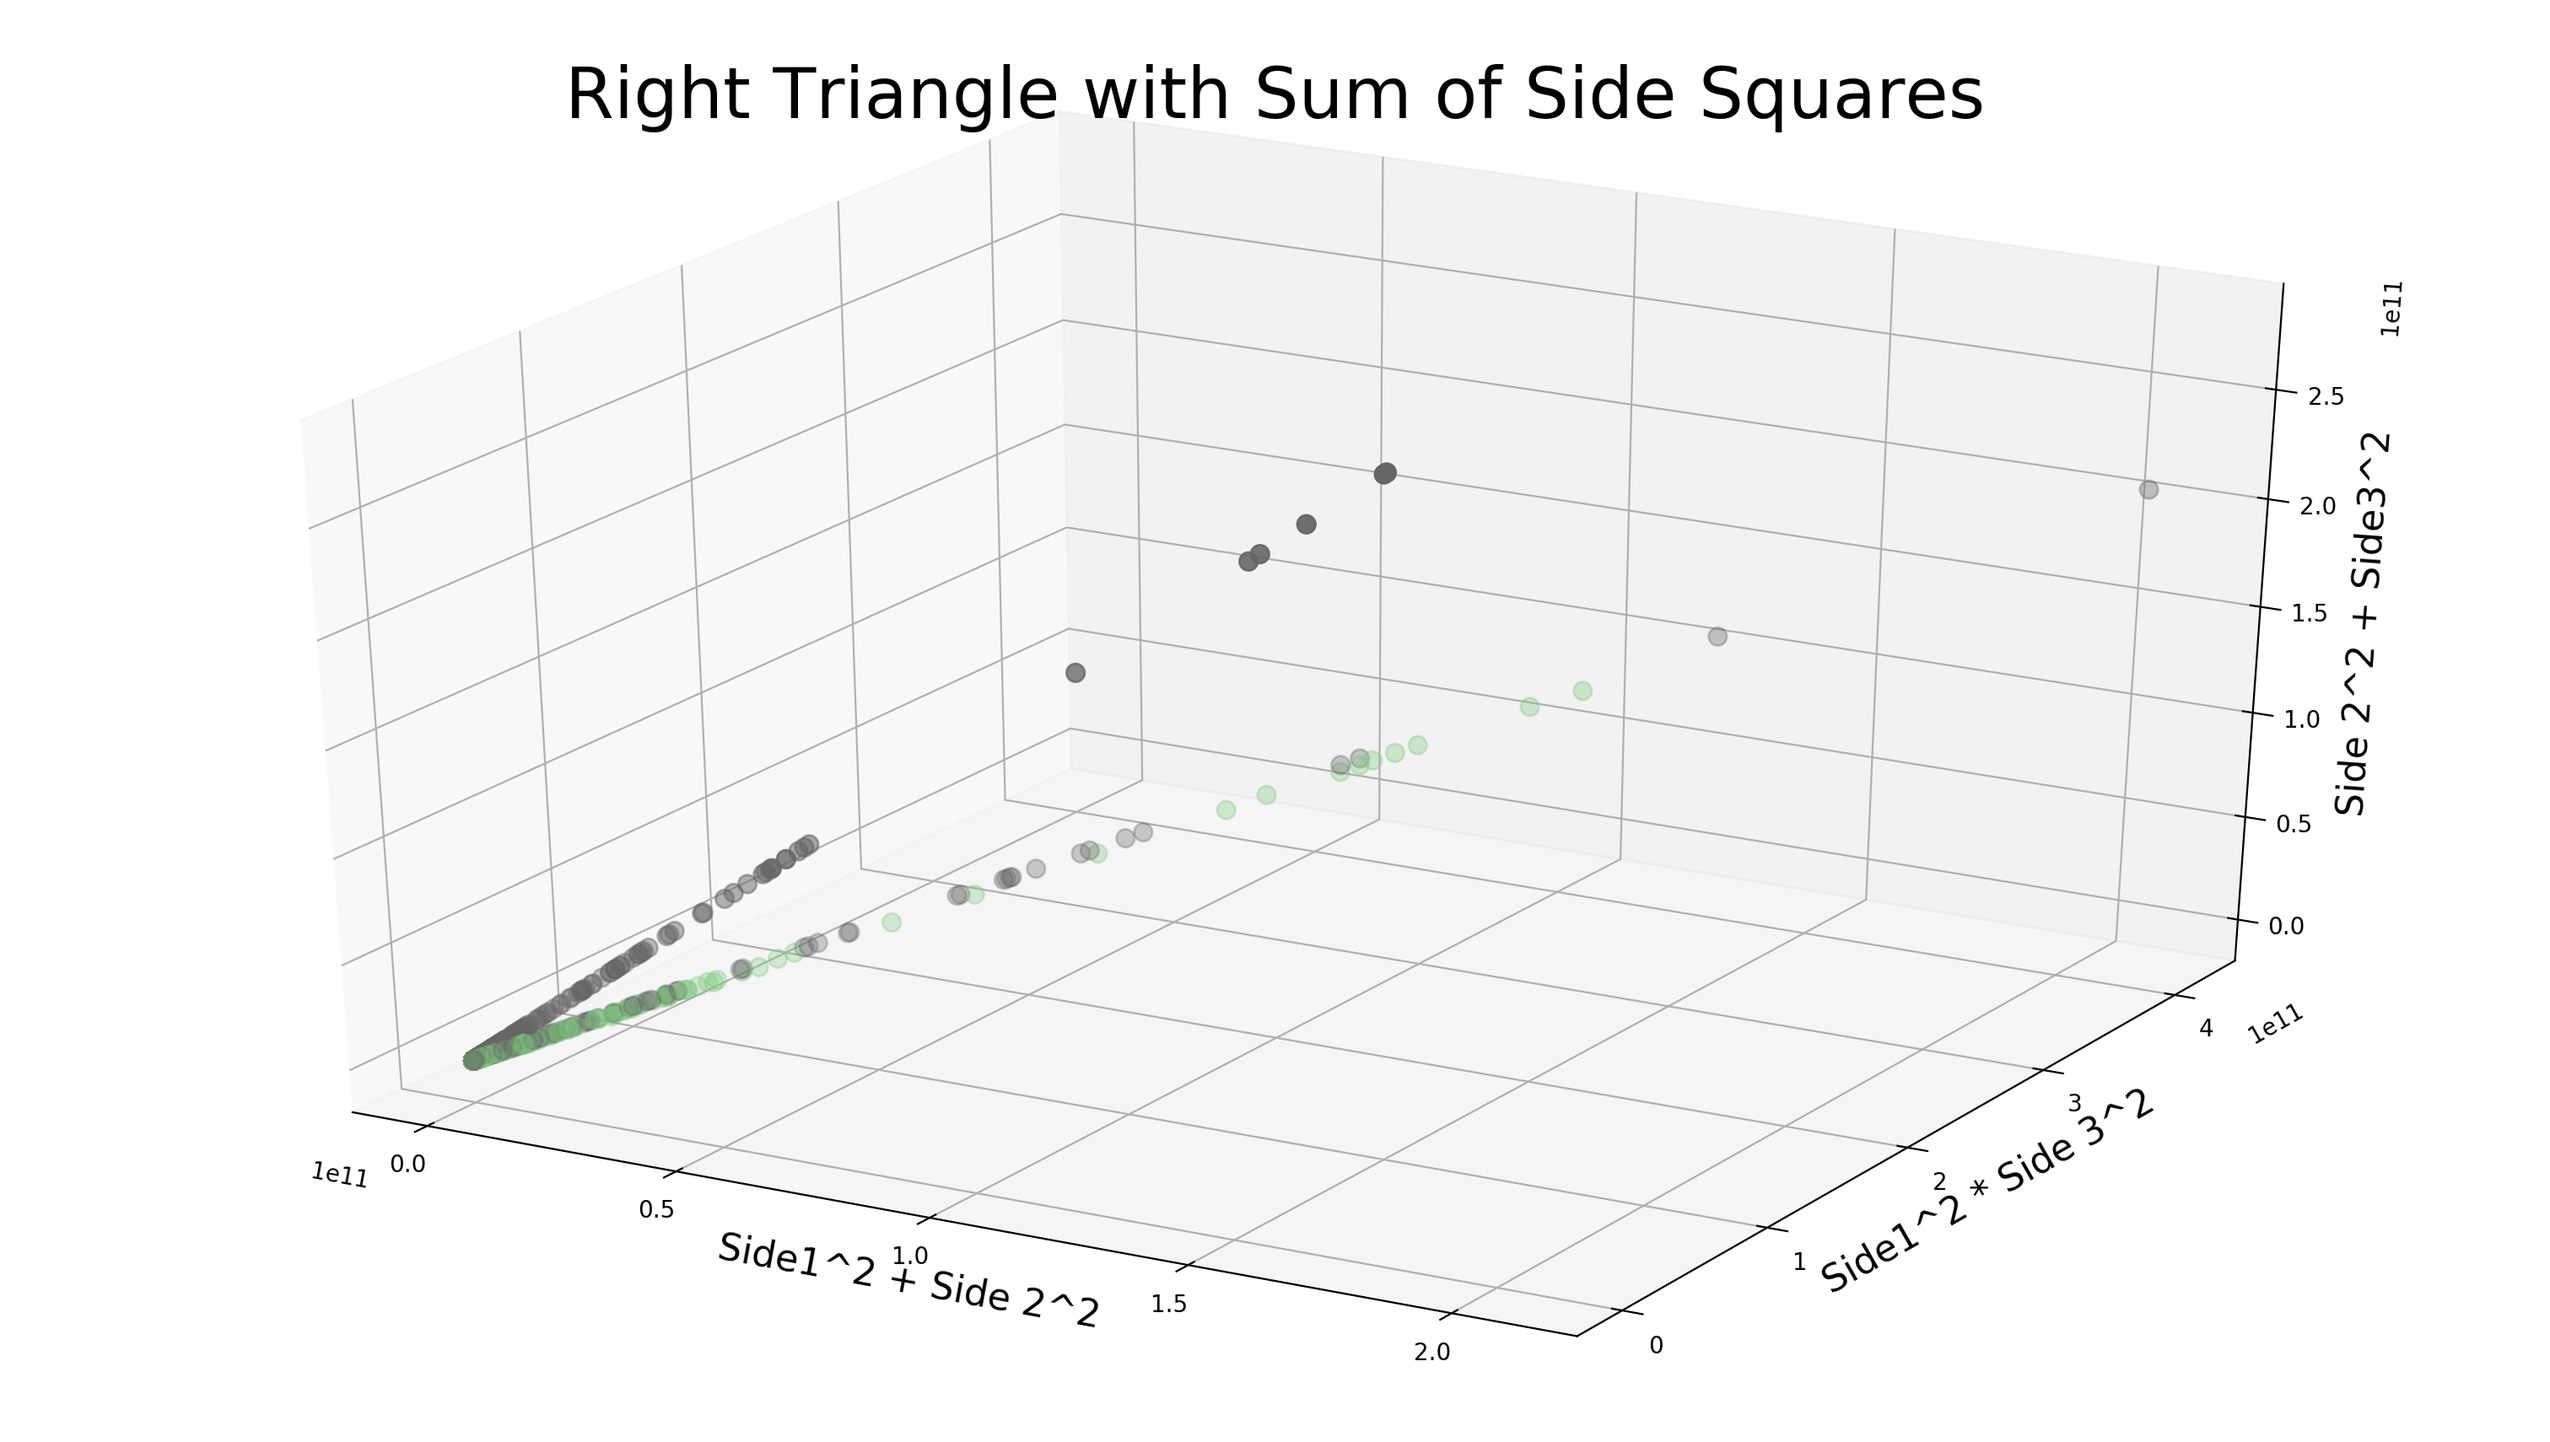
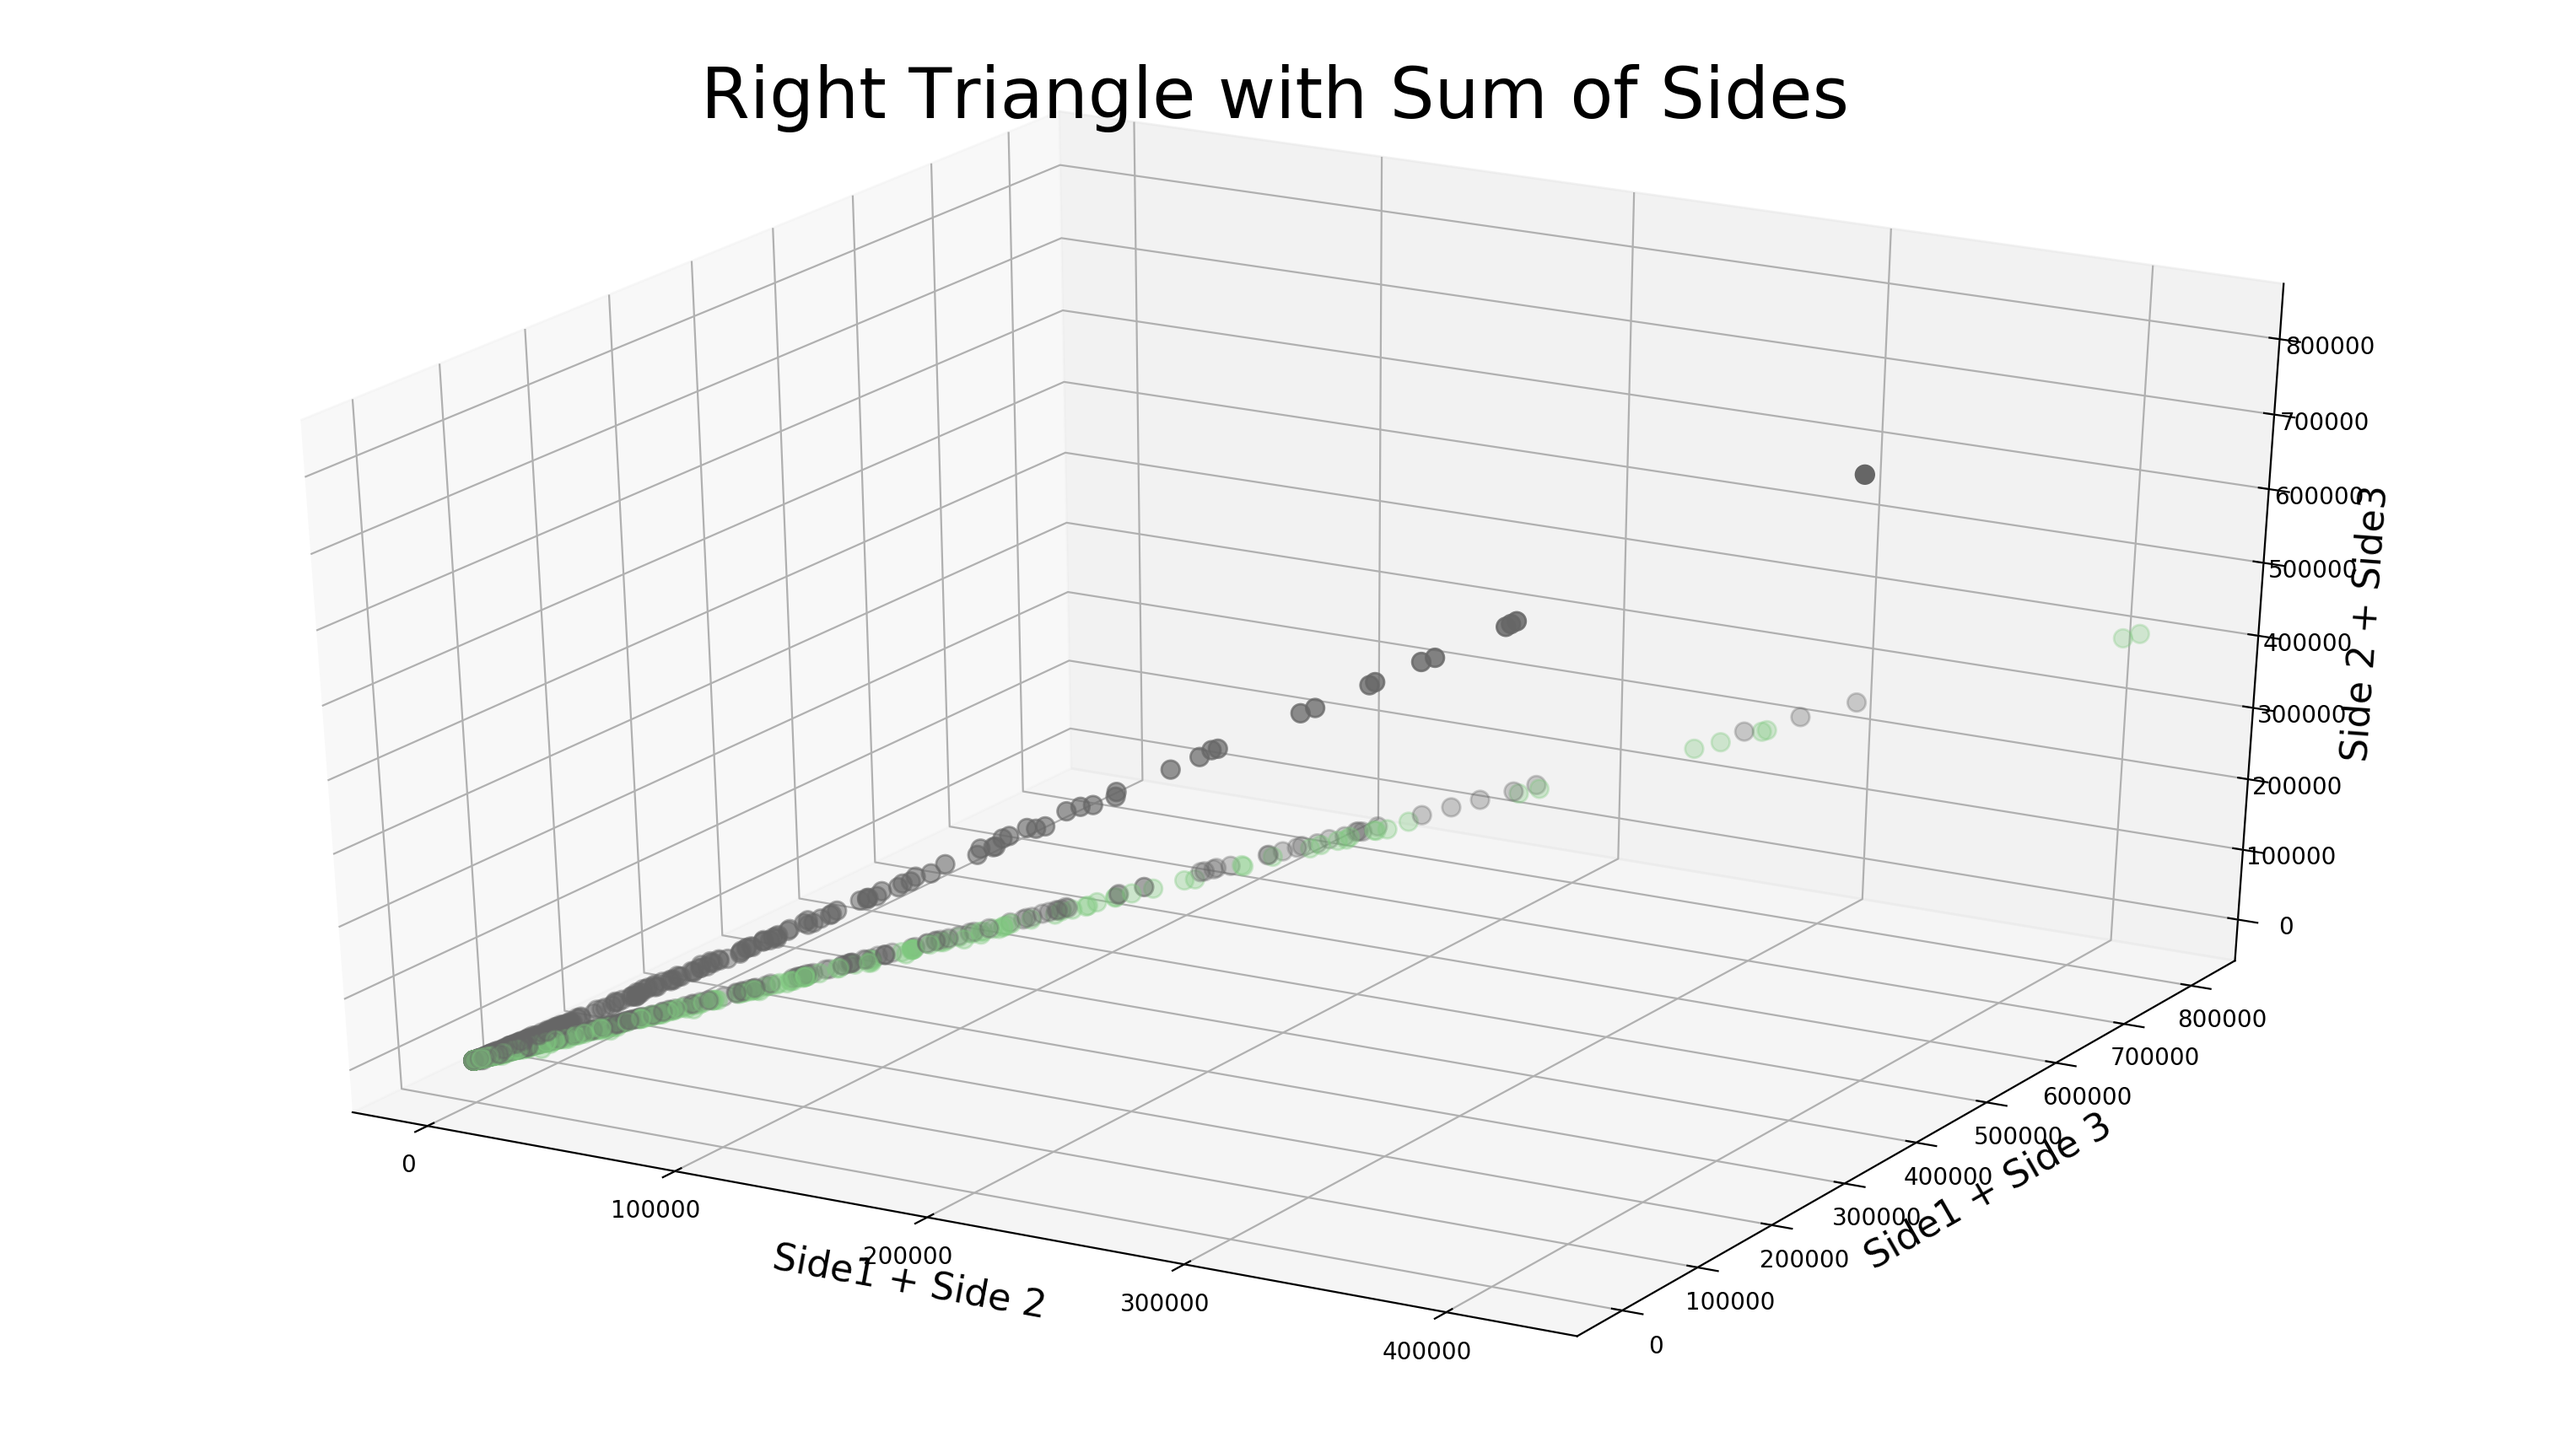
Added image generation of right triangle side sum

diff --git a/plot_dataset_3d.py b/plot_dataset_3d.py
@@ -8,13 +8,15 @@ from mpl_toolkits.mplot3d import Axes3D
 
 # local python import
 from utils import T_DATASET1, T_DATASET3
-from utils import RT_DATASET1, RT_DATASET3, RT_DATASET5
+from utils import RT_DATASET1, RT_DATASET3
+from utils import RT_DATASET4, RT_DATASET5
 from utils import IMAGE_FILES
 
 
 DATASET_FILES = [
     T_DATASET1, T_DATASET3,
-    RT_DATASET1, RT_DATASET3, RT_DATASET5
+    RT_DATASET1, RT_DATASET3,
+    RT_DATASET4, RT_DATASET5
 ]
 
 for counter, dataset in enumerate(DATASET_FILES):
@@ -38,6 +40,11 @@ for counter, dataset in enumerate(DATASET_FILES):
         x, y, z = DF['side1^2'], DF['side2^2'], DF['side3^2']
         l1, l2, l3 = 'Side1^2', 'Side2^2', 'Side3^2'
         title = "Right Triangle with Side Squares"
+    elif counter == 4:
+        x, y = DF['side1+side2'], DF['side1+side3']
+        z = DF['side2+side3']
+        l1, l2, l3 = 'Side1 + Side 2', 'Side1 + Side 3', 'Side 2 + Side3'
+        title = "Right Triangle with Sum of Sides"
     else:
         x, y = DF['side1^2+side2^2'], DF['side1^2+side3^2']
         z = DF['side2^2+side3^2']

diff --git a/utils.py b/utils.py
@@ -31,7 +31,9 @@ T_IMAGE2 = os.path.join(IMAGE_DIR, "t_image2.png")
 RT_IMAGE1 = os.path.join(IMAGE_DIR, "rt_image1.png")
 RT_IMAGE2 = os.path.join(IMAGE_DIR, "rt_image2.png")
 RT_IMAGE3 = os.path.join(IMAGE_DIR, "rt_image3.png")
-IMAGE_FILES = [T_IMAGE1, T_IMAGE2, RT_IMAGE1, RT_IMAGE2, RT_IMAGE3]
+RT_IMAGE4 = os.path.join(IMAGE_DIR, "rt_image4.png")
+IMAGE_FILES = [T_IMAGE1, T_IMAGE2]
+IMAGE_FILES += [RT_IMAGE1, RT_IMAGE2, RT_IMAGE3, RT_IMAGE4]
 
 # Normal triangle dataset related constants
 T_LABEL1 = ['side1', 'side2', 'side3', 'validity']
